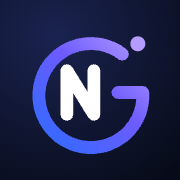
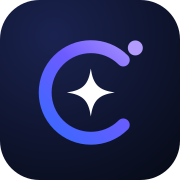
Rebrand NextGen Technologies to Celestiq
- Rename company across copy, metadata, wordmarks and email sender
- New Celestiq monogram (C orbit + four-point star) in component, SVGs and regenerated PNG icons
- Move brand assets from public/brand to public/celestiq
- Switch default domain to celestiqtech.com
- Enquiry references now prefixed CQ-

diff --git a/src/components/brand/Logo.tsx b/src/components/brand/Logo.tsx
@@ -6,7 +6,7 @@ import { useId } from "react";
 type MarkProps = {
   className?: string;
   /**
-   * Background the mark sits on: "dark" (white N), "light" (navy N) or
+   * Background the mark sits on: "dark" (white star), "light" (navy star) or
    * "auto" (follows the site theme).
    */
   tone?: "light" | "dark" | "auto";
@@ -15,15 +15,15 @@ type MarkProps = {
   title?: string;
 };
 
-const G_PATH = "M47.2 13.6A25 25 0 1 0 57 32H45";
-const N_PATH = "M20.5 42.5V21.5l13 21V21.5";
+const C_PATH = "M47.6 16.4A22 22 0 1 0 47.6 47.6";
+const STAR_PATH = "M32 20.5C33.1 28.2 35.8 30.9 43.5 32C35.8 33.1 33.1 35.8 32 43.5C30.9 35.8 28.2 33.1 20.5 32C28.2 30.9 30.9 28.2 32 20.5Z";
 
-/** The NextGen monogram: a G enclosing an N, with a forward "spark" node. */
-export function LogoMark({ className, tone = "auto", animate = false, title = "NextGen Technologies" }: MarkProps) {
+/** The Celestiq monogram: a "C" orbit around a four-point star, with an orbiting "spark" node. */
+export function LogoMark({ className, tone = "auto", animate = false, title = "Celestiq Technologies" }: MarkProps) {
   const id = useId().replace(/:/g, "");
   const reduce = useReducedMotion();
   const shouldAnimate = animate && !reduce;
-  const nColor = tone === "auto" ? "var(--color-white)" : tone === "dark" ? "#FFFFFF" : "#0A0F1F";
+  const starColor = tone === "auto" ? "var(--color-white)" : tone === "dark" ? "#FFFFFF" : "#0A0F1F";
 
   const trigger =
     animate === "inView" ? { whileInView: "show", viewport: { once: true, amount: 0.6 } } : { animate: "show" };
@@ -43,46 +43,45 @@ export function LogoMark({ className, tone = "auto", animate = false, title = "N
       {...(shouldAnimate ? trigger : {})}
     >
       <defs>
-        <linearGradient id={`ng-g-${id}`} x1="8" y1="58" x2="58" y2="6" gradientUnits="userSpaceOnUse">
+        <linearGradient id={`cq-g-${id}`} x1="8" y1="58" x2="58" y2="6" gradientUnits="userSpaceOnUse">
           <stop offset="0" stopColor="#2F6BFF" />
           <stop offset="0.55" stopColor="#6D5BFF" />
           <stop offset="1" stopColor="#B49CFF" />
         </linearGradient>
       </defs>
       <motion.path
-        d={G_PATH}
+        d={C_PATH}
         fill="none"
-        stroke={`url(#ng-g-${id})`}
+        stroke={`url(#cq-g-${id})`}
         strokeWidth={6.2}
         strokeLinecap="round"
         strokeLinejoin="round"
         variants={draw(0)}
       />
       <motion.path
-        d={N_PATH}
-        fill="none"
-        style={{ stroke: nColor }}
-        strokeWidth={6.2}
-        strokeLinecap="round"
-        strokeLinejoin="round"
-        variants={draw(0.35)}
+        d={STAR_PATH}
+        style={{ fill: starColor, transformOrigin: "32px 32px" }}
+        variants={{
+          hidden: { scale: 0, rotate: -45, opacity: 0 },
+          show: { scale: 1, rotate: 0, opacity: 1, transition: { delay: 0.55, type: "spring", stiffness: 260, damping: 16 } },
+        }}
       />
       <motion.circle
-        cx={54.6}
-        cy={8.6}
+        cx={53.4}
+        cy={10.6}
         r={3.6}
         fill="#B49CFF"
         variants={{
           hidden: { scale: 0, opacity: 0 },
           show: { scale: 1, opacity: 1, transition: { delay: 1.05, type: "spring", stiffness: 380, damping: 14 } },
         }}
-        style={{ transformOrigin: "54.6px 8.6px" }}
+        style={{ transformOrigin: "53.4px 10.6px" }}
       />
     </motion.svg>
   );
 }
 
-/** Horizontal lockup: monogram + "NextGen" wordmark + "Technologies" descriptor. */
+/** Horizontal lockup: monogram + "Celestiq" wordmark + "Technologies" descriptor. */
 export function Logo({
   className = "",
   tone = "auto",
@@ -101,7 +100,7 @@ export function Logo({
       <LogoMark className="h-9 w-9 shrink-0" tone={tone} animate={animate} title="" />
       <span className="flex flex-col leading-none">
         <span className={`font-display text-[1.35rem] font-semibold tracking-[-0.03em] ${ink}`}>
-          Next<span className="text-gradient">Gen</span>
+          Celest<span className="text-gradient">iq</span>
         </span>
         {descriptor ? (
           <span className="mt-1 pl-px font-sans text-[0.56rem] font-semibold tracking-[0.34em] text-fg-subtle uppercase">Technologies</span>

diff --git a/src/app/products/page.tsx b/src/app/products/page.tsx
@@ -13,7 +13,7 @@ import { site } from "@/lib/site";
 export const metadata: Metadata = {
   title: "Products",
   description:
-    "Software products built, owned and operated by NextGen Technologies — Autonexa for automotive businesses, Flowza for queue management and BuildPilot for construction teams.",
+    "Software products built, owned and operated by Celestiq Technologies — Autonexa for automotive businesses, Flowza for queue management and BuildPilot for construction teams.",
   alternates: { canonical: "/products" },
   openGraph: { title: `Products · ${site.name}`, url: "/products" },
 };
@@ -42,7 +42,7 @@ export default function ProductsPage() {
             Software we <span className="text-gradient">build, own and run.</span>
           </>
         }
-        intro="NextGen Technologies designs, engineers and operates its own SaaS platforms. Each one solves a real operational problem for a specific industry."
+        intro="Celestiq Technologies designs, engineers and operates its own SaaS platforms. Each one solves a real operational problem for a specific industry."
         count={`${String(products.length).padStart(2, "0")} products`}
       />
 
@@ -93,7 +93,7 @@ function ProductCard({ product: p, index }: { product: Product; index: number })
         <div className="flex flex-col lg:col-span-5">
           <div className="flex flex-wrap items-center gap-3">
             <span className="inline-flex items-center gap-1.5 rounded-full bg-gradient-to-r from-electric to-violet px-3 py-1 text-[0.7rem] font-semibold tracking-wide text-snow uppercase">
-              <Boxes className="h-3.5 w-3.5" aria-hidden /> NextGen Product
+              <Boxes className="h-3.5 w-3.5" aria-hidden /> Celestiq Product
             </span>
             <span className="font-display text-sm text-fg-subtle tabular-nums">0{index + 1}</span>
           </div>

diff --git a/src/components/sections/Hero.tsx b/src/components/sections/Hero.tsx
@@ -81,13 +81,13 @@ export function Hero() {
             className="inline-flex items-center gap-2 rounded-full border border-white/10 bg-white/[0.04] py-1 pr-4 pl-1 text-xs text-fg-muted lg:backdrop-blur"
           >
             <span className="rounded-full bg-gradient-to-r from-electric to-violet px-2.5 py-0.5 text-[0.7rem] font-semibold text-snow">
-              NextGen Technologies
+              Celestiq Technologies
             </span>
             Software development &amp; product company
           </motion.p>
 
           <h1 id="hero-title" className="mt-7 text-[2.55rem] leading-[1.03] font-semibold sm:text-6xl lg:text-[4.1rem]">
-            <span className="sr-only">NextGen Technologies — </span>
+            <span className="sr-only">Celestiq Technologies — </span>
             {["Building Digital", "Products."].map((line, i) => (
               <span key={line} className="block overflow-hidden pb-[0.06em]">
                 <motion.span
@@ -118,7 +118,7 @@ export function Hero() {
             transition={{ duration: 0.8, delay: 0.45, ease }}
             className="mt-7 max-w-xl text-lg leading-relaxed text-fg-muted"
           >
-            NextGen Technologies designs and engineers websites, web and mobile applications and APIs for clients — and builds its own
+            Celestiq Technologies designs and engineers websites, web and mobile applications and APIs for clients — and builds its own
             SaaS products, Autonexa, Flowza and BuildPilot.
           </motion.p>
 

diff --git a/src/app/products/[slug]/page.tsx b/src/app/products/[slug]/page.tsx
@@ -66,7 +66,7 @@ export default async function ProductPage({ params }: { params: Promise<Params> 
           <div className="mt-10 grid items-end gap-10 lg:grid-cols-12">
             <Reveal className="lg:col-span-7">
               <span className="inline-flex items-center gap-1.5 rounded-full bg-gradient-to-r from-electric to-violet px-3 py-1 text-[0.7rem] font-semibold tracking-wide text-snow uppercase">
-                <Boxes className="h-3.5 w-3.5" aria-hidden /> NextGen Product · {p.category}
+                <Boxes className="h-3.5 w-3.5" aria-hidden /> Celestiq Product · {p.category}
               </span>
               <h1 className="mt-8">
                 <span className="sr-only">{p.name}</span>
@@ -180,7 +180,7 @@ export default async function ProductPage({ params }: { params: Promise<Params> 
           <div className="ring-gradient flex flex-col items-start gap-8 rounded-[2rem] bg-ink-850 p-8 sm:p-12 lg:flex-row lg:items-center lg:justify-between">
             <div>
               <h2 className="text-3xl font-semibold sm:text-4xl">Interested in {p.name}?</h2>
-              <p className="mt-3 max-w-xl text-fg-muted">Talk to the NextGen Technologies team about a demo, pricing or a tailored rollout for your business.</p>
+              <p className="mt-3 max-w-xl text-fg-muted">Talk to the Celestiq Technologies team about a demo, pricing or a tailored rollout for your business.</p>
             </div>
             <div className="flex flex-wrap gap-3">
               <Link

diff --git a/src/app/opengraph-image.tsx b/src/app/opengraph-image.tsx
@@ -1,6 +1,6 @@
 import { ImageResponse } from "next/og";
 
-export const alt = "NextGen Technologies — Building Digital Products. Empowering Businesses.";
+export const alt = "Celestiq Technologies — Building Digital Products. Empowering Businesses.";
 export const size = { width: 1200, height: 630 };
 export const contentType = "image/png";
 
@@ -35,11 +35,11 @@ export default function OpengraphImage() {
           </svg>
           <div style={{ display: "flex", flexDirection: "column" }}>
             <div style={{ fontSize: 52, fontWeight: 700, letterSpacing: -2, display: "flex", lineHeight: 1 }}>
-              Next<span style={{ color: "#8b7bff" }}>Gen</span>
+              Celest<span style={{ color: "#8b7bff" }}>iq</span>
             </div>
             <div style={{ fontSize: 17, fontWeight: 600, letterSpacing: 7, color: "#8a93b3", marginTop: 8 }}>TECHNOLOGIES</div>
           </div>
-          <div style={{ marginLeft: "auto", fontSize: 24, color: "#8a93b3" }}>thenextgentech.co</div>
+          <div style={{ marginLeft: "auto", fontSize: 24, color: "#8a93b3" }}>celestiqtech.com</div>
         </div>
         <div style={{ display: "flex", flexDirection: "column", gap: 24 }}>
           <div style={{ fontSize: 68, fontWeight: 700, lineHeight: 1.05, letterSpacing: -2.5, maxWidth: 980 }}>

diff --git a/src/lib/site.ts b/src/lib/site.ts
@@ -12,15 +12,15 @@ export type SocialLink = {
 
 export const site = {
   /** Full company name, used in titles, metadata and structured data */
-  name: "NextGen Technologies",
+  name: "Celestiq Technologies",
   /** Short brand name for tight UI spots (logo wordmark, badges) */
-  shortName: "NextGen",
-  legalName: "NextGen Technologies",
+  shortName: "Celestiq",
+  legalName: "Celestiq Technologies",
   tagline: "Building Digital Products. Empowering Businesses.",
   description:
-    "NextGen Technologies is a software development and product company. We design and build websites, web and mobile applications and APIs for clients, and run our own SaaS products: Autonexa, Flowza and BuildPilot.",
+    "Celestiq Technologies is a software development and product company. We design and build websites, web and mobile applications and APIs for clients, and run our own SaaS products: Autonexa, Flowza and BuildPilot.",
   /** Canonical origin. Override with NEXT_PUBLIC_SITE_URL for previews. */
-  url: (process.env.NEXT_PUBLIC_SITE_URL || "https://thenextgentech.co").replace(/\/$/, ""),
+  url: (process.env.NEXT_PUBLIC_SITE_URL || "https://celestiqtech.com").replace(/\/$/, ""),
   locale: "en_US",
   contact: {
     email: "",

diff --git a/src/components/sections/About.tsx b/src/components/sections/About.tsx
@@ -31,7 +31,7 @@ export function About() {
         <div>
           <SectionHeading
             id="about-title"
-            eyebrow="About NextGen Technologies"
+            eyebrow="About Celestiq Technologies"
             title={
               <>
                 Technology company. <span className="text-gradient">Product builders.</span>
@@ -40,7 +40,7 @@ export function About() {
           />
           <Reveal delay={0.1} className="mt-6 space-y-5 text-lg leading-relaxed text-fg-muted">
             <p>
-              NextGen Technologies is a software development and product company. We partner with businesses to design and build
+              Celestiq Technologies is a software development and product company. We partner with businesses to design and build
               websites, applications and integrations — software that works hard every day.
             </p>
             <p>

diff --git a/src/components/layout/FooterWordmark.tsx b/src/components/layout/FooterWordmark.tsx
@@ -3,7 +3,7 @@
 import { motion } from "framer-motion";
 import { LogoMark } from "@/components/brand/Logo";
 
-/** Oversized animated NextGen wordmark that rises and draws in as the footer scrolls into view. */
+/** Oversized animated Celestiq wordmark that rises and draws in as the footer scrolls into view. */
 export function FooterWordmark() {
   return (
     <div aria-hidden className="container-x relative mt-16 overflow-hidden select-none">
@@ -16,7 +16,7 @@ export function FooterWordmark() {
       >
         <LogoMark animate="inView" className="h-[13vw] max-h-48 w-[13vw] max-w-48 shrink-0" title="" />
         <span className="text-gradient text-gradient-animated pb-[0.06em] font-display text-[17vw] leading-[0.9] font-semibold tracking-[-0.06em] xl:text-[15rem]">
-          NextGen
+          Celestiq
         </span>
       </motion.div>
     </div>

diff --git a/src/app/globals.css b/src/app/globals.css
@@ -5,7 +5,7 @@
 @custom-variant light (&:where([data-theme="light"], [data-theme="light"] *));
 @custom-variant dark (&:where(:root:not([data-theme="light"]), :root:not([data-theme="light"]) *));
 
-/* ───────────────────────── NextGen design tokens ───────────────────────── */
+/* ───────────────────────── Celestiq design tokens ───────────────────────── */
 @theme {
   --font-sans: var(--font-inter), ui-sans-serif, system-ui, -apple-system, "Segoe UI", sans-serif;
   --font-display: var(--font-sora), var(--font-inter), ui-sans-serif, system-ui, sans-serif;

diff --git a/src/app/manifest.ts b/src/app/manifest.ts
@@ -11,9 +11,9 @@ export default function manifest(): MetadataRoute.Manifest {
     background_color: "#070b18",
     theme_color: "#070b18",
     icons: [
-      { src: "/brand/icon-192.png", sizes: "192x192", type: "image/png" },
-      { src: "/brand/icon-512.png", sizes: "512x512", type: "image/png" },
-      { src: "/brand/icon-maskable-512.png", sizes: "512x512", type: "image/png", purpose: "maskable" },
+      { src: "/celestiq/icon-192.png", sizes: "192x192", type: "image/png" },
+      { src: "/celestiq/icon-512.png", sizes: "512x512", type: "image/png" },
+      { src: "/celestiq/icon-maskable-512.png", sizes: "512x512", type: "image/png", purpose: "maskable" },
     ],
   };
 }

diff --git a/src/components/layout/Footer.tsx b/src/components/layout/Footer.tsx
@@ -15,7 +15,7 @@ export function Footer() {
       <div aria-hidden className="pointer-events-none absolute inset-x-0 -top-40 h-80 bg-[radial-gradient(ellipse_at_center,rgba(109,91,255,0.18),transparent_65%)]" />
       <div className="container-x relative grid gap-12 md:grid-cols-12">
         <div className="md:col-span-4">
-          <Link href="/#home" className="inline-flex" aria-label="NextGen Technologies — home">
+          <Link href="/#home" className="inline-flex" aria-label="Celestiq Technologies — home">
             <Logo />
           </Link>
           <p className="mt-5 max-w-sm text-sm leading-relaxed text-fg-muted">

diff --git a/src/components/sections/Products.tsx b/src/components/sections/Products.tsx
@@ -23,7 +23,7 @@ export function Products() {
           />
           <div className="max-w-sm lg:pb-2">
             <p className="text-fg-muted">
-              Beyond client work, NextGen Technologies designs and operates its own SaaS platforms.
+              Beyond client work, Celestiq Technologies designs and operates its own SaaS platforms.
             </p>
             <Link href="/products" className="group mt-4 inline-flex items-center gap-1.5 text-sm font-medium text-electric-soft hover:text-white">
               View all products <ArrowRight className="h-4 w-4 transition-transform group-hover:translate-x-1" aria-hidden />
